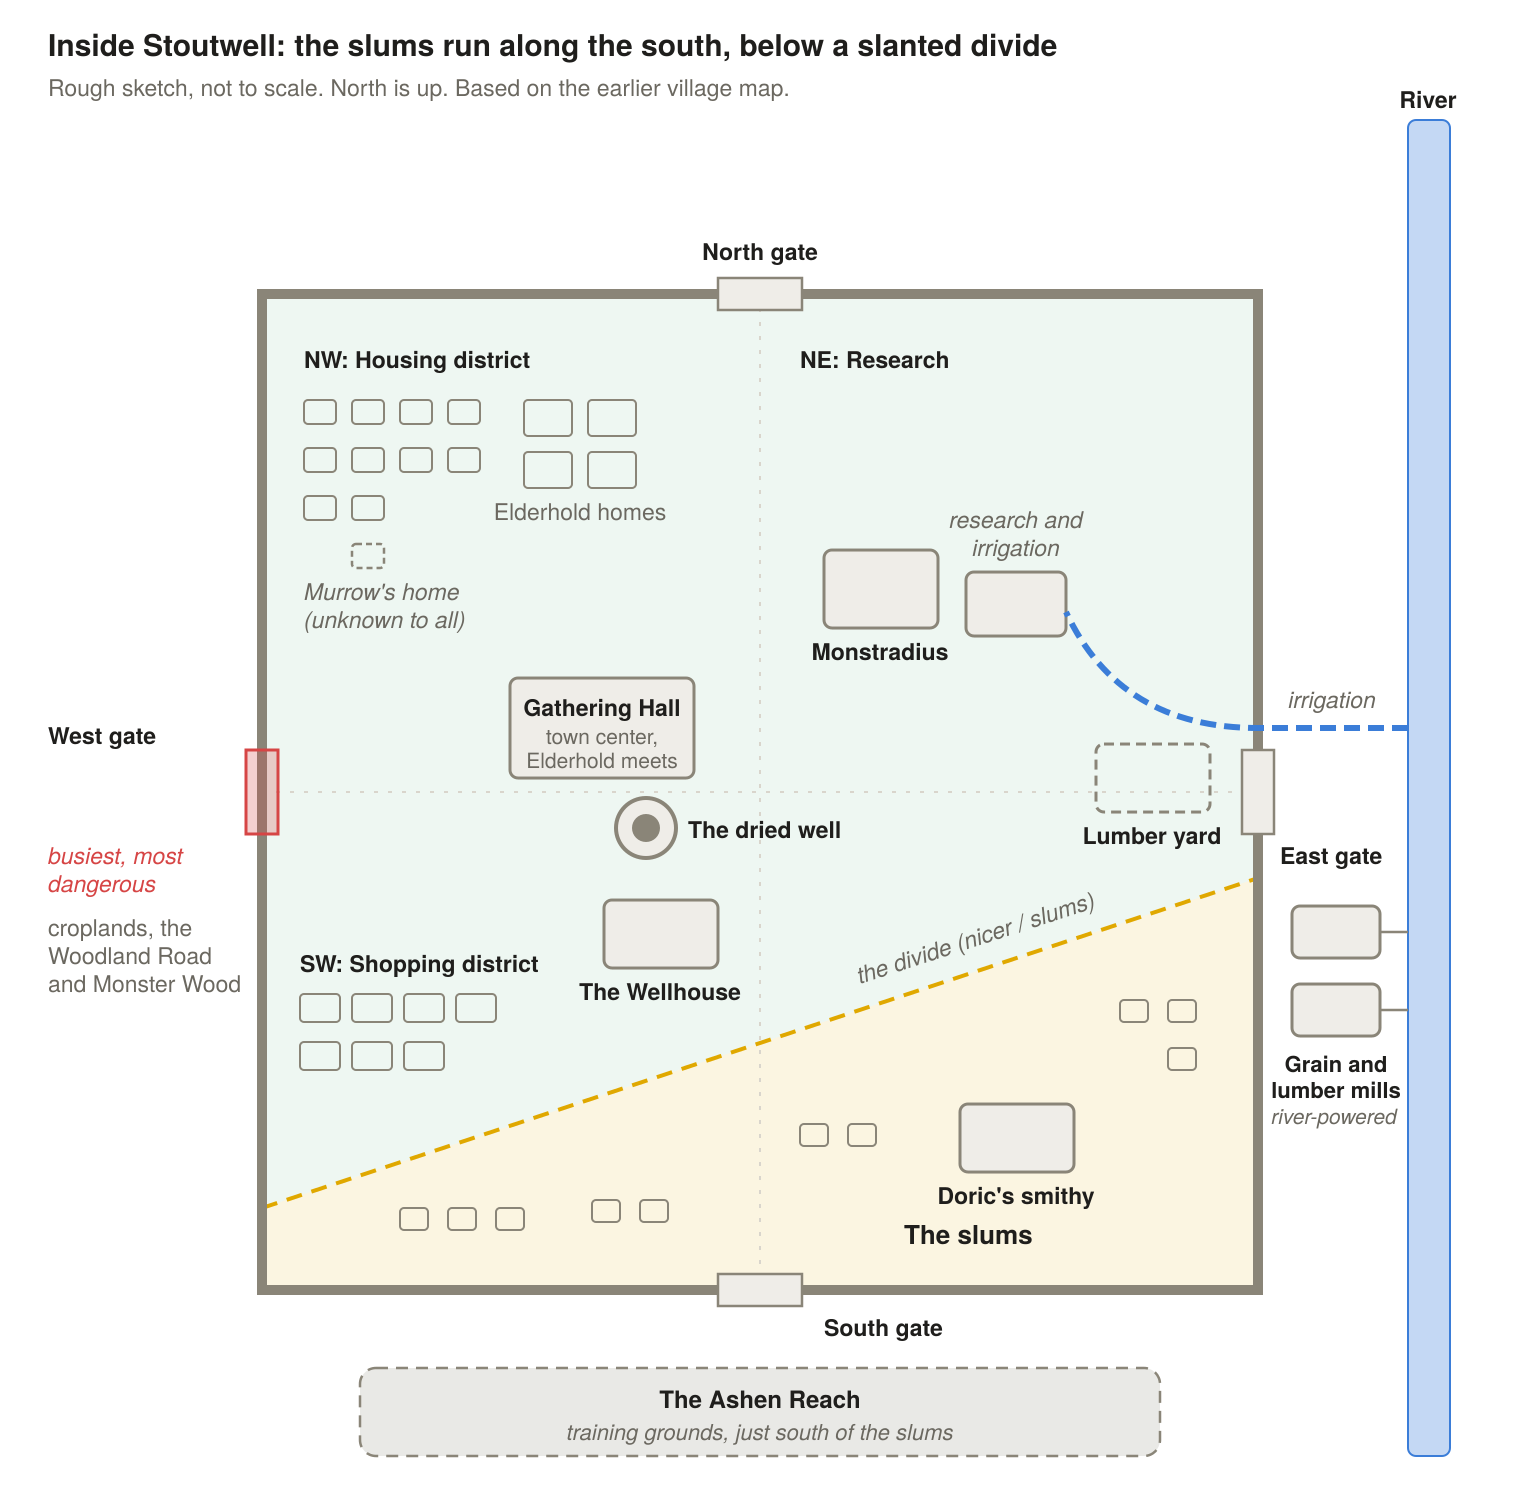
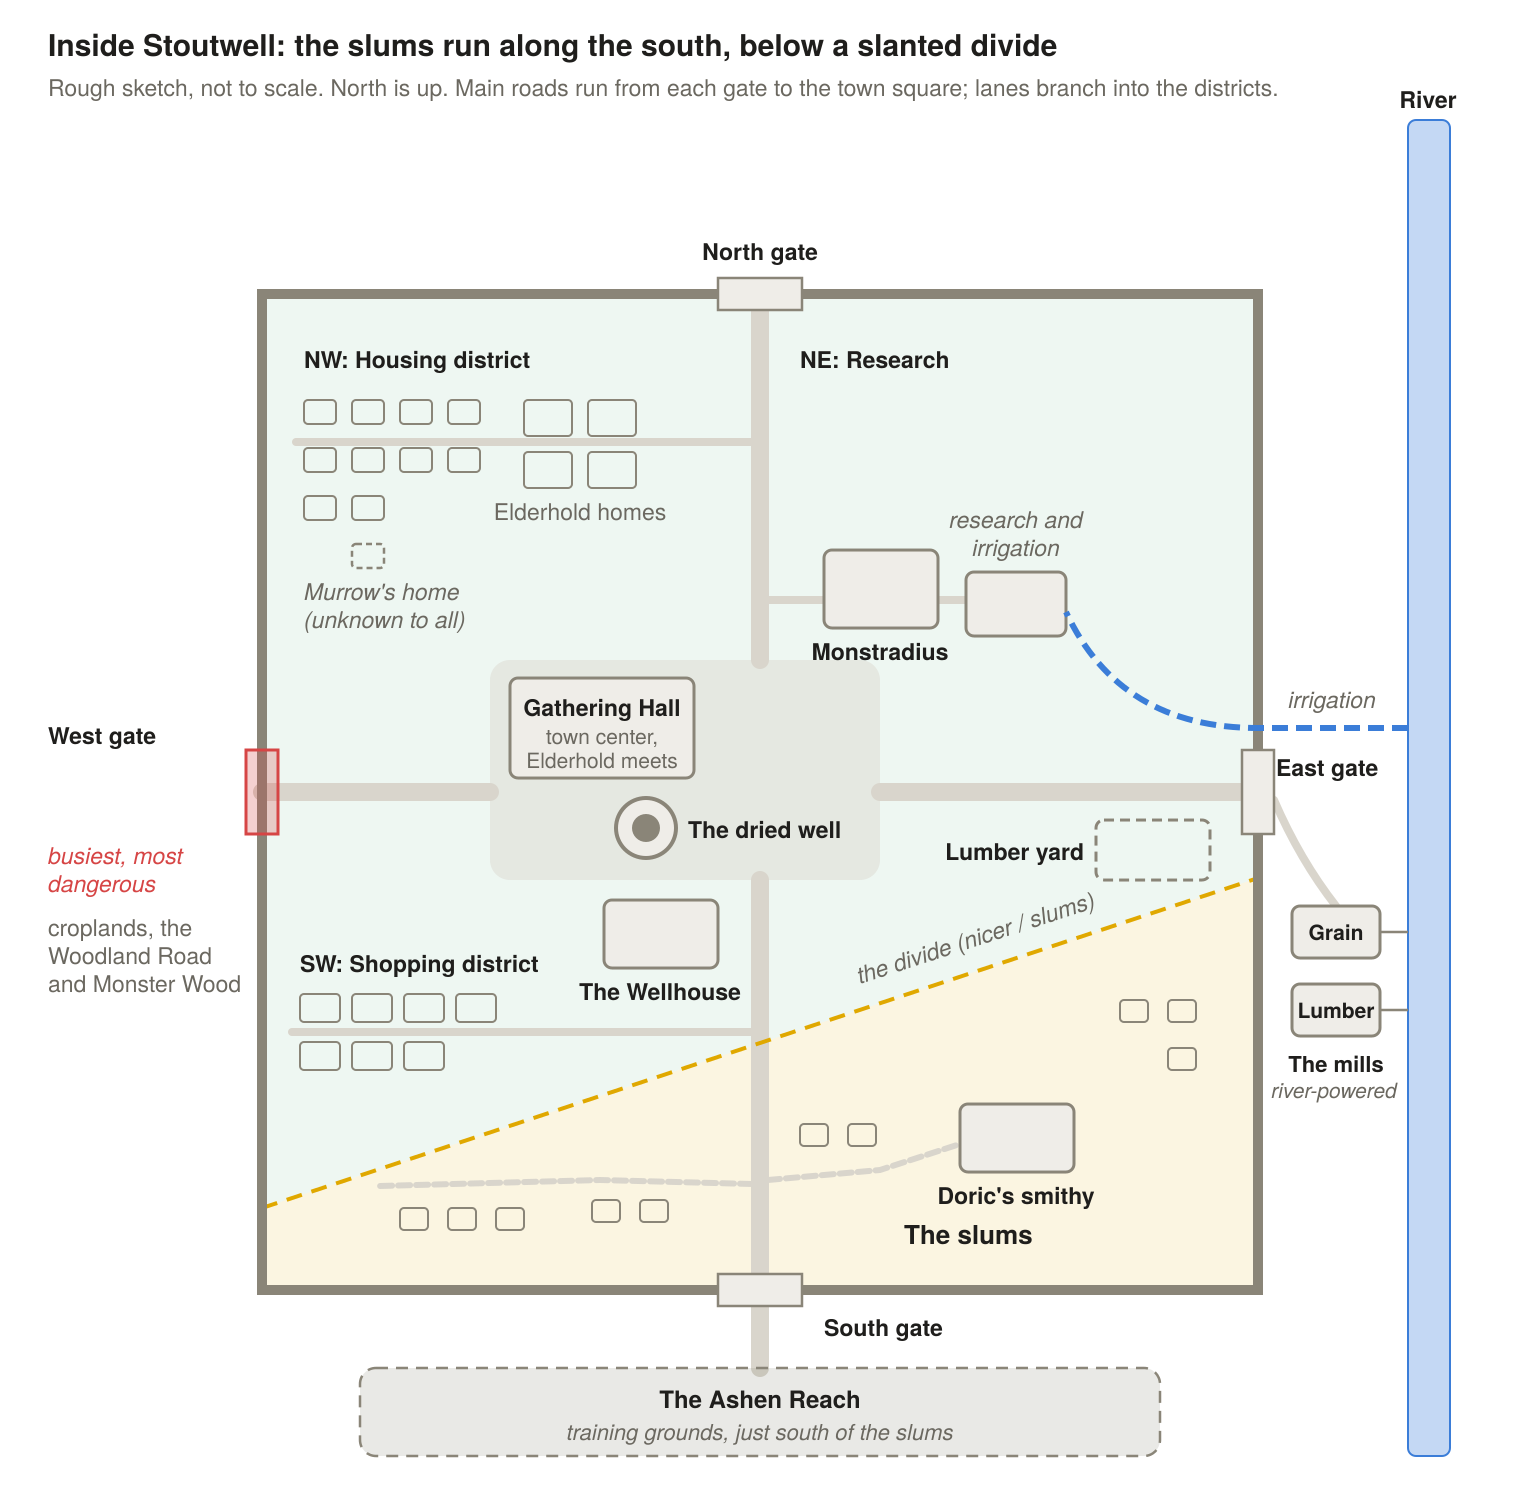
Add roads and lanes to the Stoutwell map, label the two mills
Main roads run from each gate to the town square around the Gathering
Hall and dried well, with lanes into the housing and shopping districts,
rough alleys through the slums, and paths to the mills and the Ashen
Reach. The grain and lumber mills stay together on the river.

Claude-Session: https://claude.ai/code/session_014B9TrLVg1Jc5w5FcUP2pgs

diff --git a/maps/README.md b/maps/README.md
@@ -3,4 +3,4 @@
 Rough sketches, not to scale.
 
 - `region.png`: Verrowen around Stoutwell. It shows the Kingdom and its capital, the Monster Wood (the Blight, the goblin lands, troll territory and how far adventurers from the west have gotten), the Woodland Road, the croplands, Stoutwell, the Ashen Reach (its training grounds, to the south), the river, the irrigation and the mills. `region.svg` is its editable source.
-- `stoutwell.png`: inside the walls. It shows the four gates, the districts and the slanted divide (slums along the south and SE), the Gathering Hall, the dried well, the Wellhouse, Monstradius and the research building, Murrow's home, Doric's smithy, the lumber yard, the river mills and the Ashen Reach to the south. `stoutwell.svg` is its editable source.
+- `stoutwell.png`: inside the walls. It shows the four gates, the main roads from each gate to the town square and the lanes into each district, the districts and the slanted divide (slums along the south and SE), the Gathering Hall, the dried well, the Wellhouse, Monstradius and the research building, Murrow's home, Doric's smithy, the lumber yard, the river mills and the Ashen Reach to the south. `stoutwell.svg` is its editable source.
